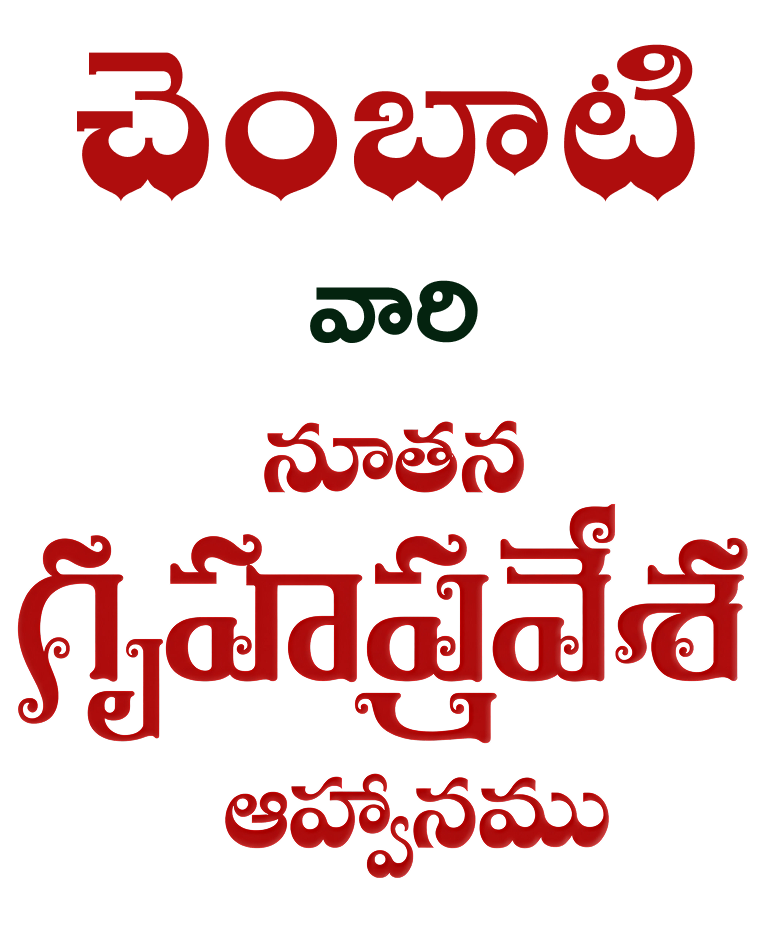
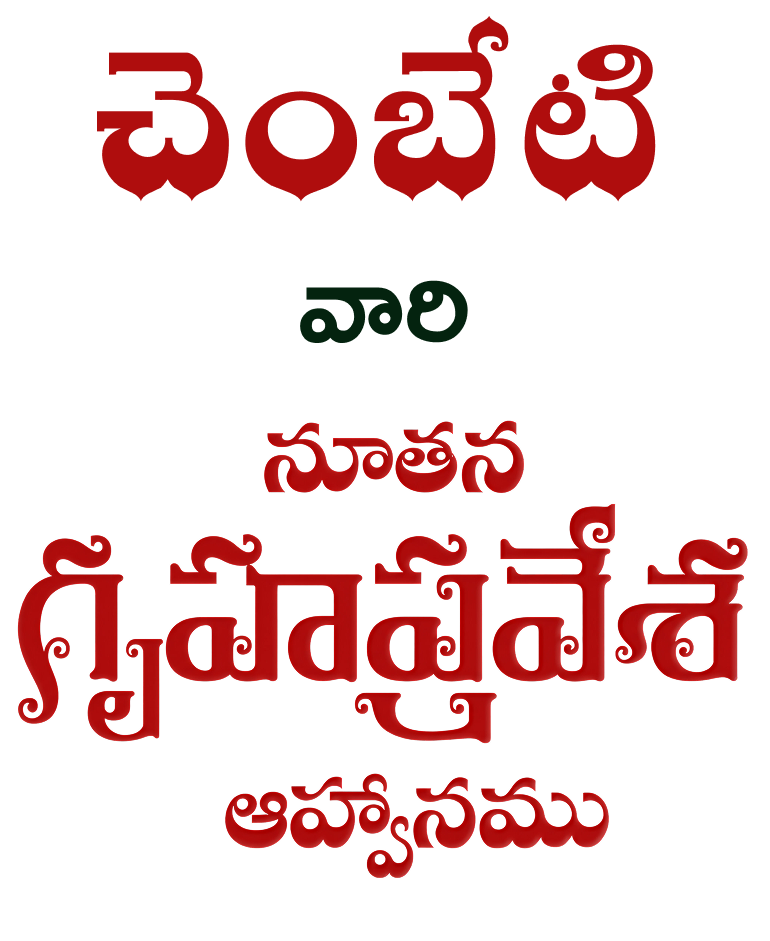
Update header title font to Ponnala in FooterSection

Changed region(s): [[0.0935, 0.0, 0.9039, 0.2157], [0.374, 0.2774, 0.6234, 0.3698]]

diff --git a/src/components/FooterSection.tsx b/src/components/FooterSection.tsx
@@ -12,8 +12,8 @@ const getGraphemes = (str: string): string[] => {
 
 export const FooterSection: React.FC = () => {
   const headerTitle = getGraphemes('మీ ఆగమనాభిలాషులు');
-  const name1 = getGraphemes('శ్రీ చెంబాటి కోటేశ్వరరావు');
-  const name2 = getGraphemes('శ్రీమతి చెంబాటి నగరాణి');
+  const name1 = getGraphemes('శ్రీ చెంబేటి కోటేశ్వరరావు');
+  const name2 = getGraphemes('శ్రీమతి చెంబేటి నాగరాణి');
 
   return (
     <section className="relative min-h-screen w-full flex flex-col justify-between items-center overflow-hidden bg-gradient-to-b from-[#F3E8DD] to-[#F2ECE4] select-none snap-start snap-always">
@@ -55,7 +55,7 @@ export const FooterSection: React.FC = () => {
         </motion.div>
 
         {/* Title: మీ ఆగమనాభిలాషులు */}
-        <h2 className="font-dhurjati text-3xl sm:text-5xl md:text-6xl text-[#1B1F24] font-bold leading-tight tracking-wider flex justify-center flex-wrap mb-4 sm:mb-6 text-center paint-order-stroke [-webkit-text-stroke:3px_#ffffff] drop-shadow-[0_1px_3px_rgba(0,0,0,0.12)]">
+        <h2 className="font-ponnala text-3xl sm:text-5xl md:text-6xl text-[#1B1F24] font-bold leading-tight tracking-wider flex justify-center flex-wrap mb-4 sm:mb-6 text-center paint-order-stroke [-webkit-text-stroke:3px_#ffffff] drop-shadow-[0_1px_3px_rgba(0,0,0,0.12)]">
           {headerTitle.map((char, index) => (
             <motion.span
               key={`f-ht-${index}`}

diff --git a/src/components/Hero.tsx b/src/components/Hero.tsx
@@ -17,7 +17,7 @@ interface HeroProps {
 export const Hero: React.FC<HeroProps> = ({ onThoranamLoaded }) => {
   const [showScrollBtn, setShowScrollBtn] = useState(true);
 
-  const word1 = getGraphemes('చెంబాటి');
+  const word1 = getGraphemes('చెంబేటి');
   const word2 = getGraphemes('వారి');
   const word3 = getGraphemes('గృహప్రవేశ ఆహ్వానం');
 
